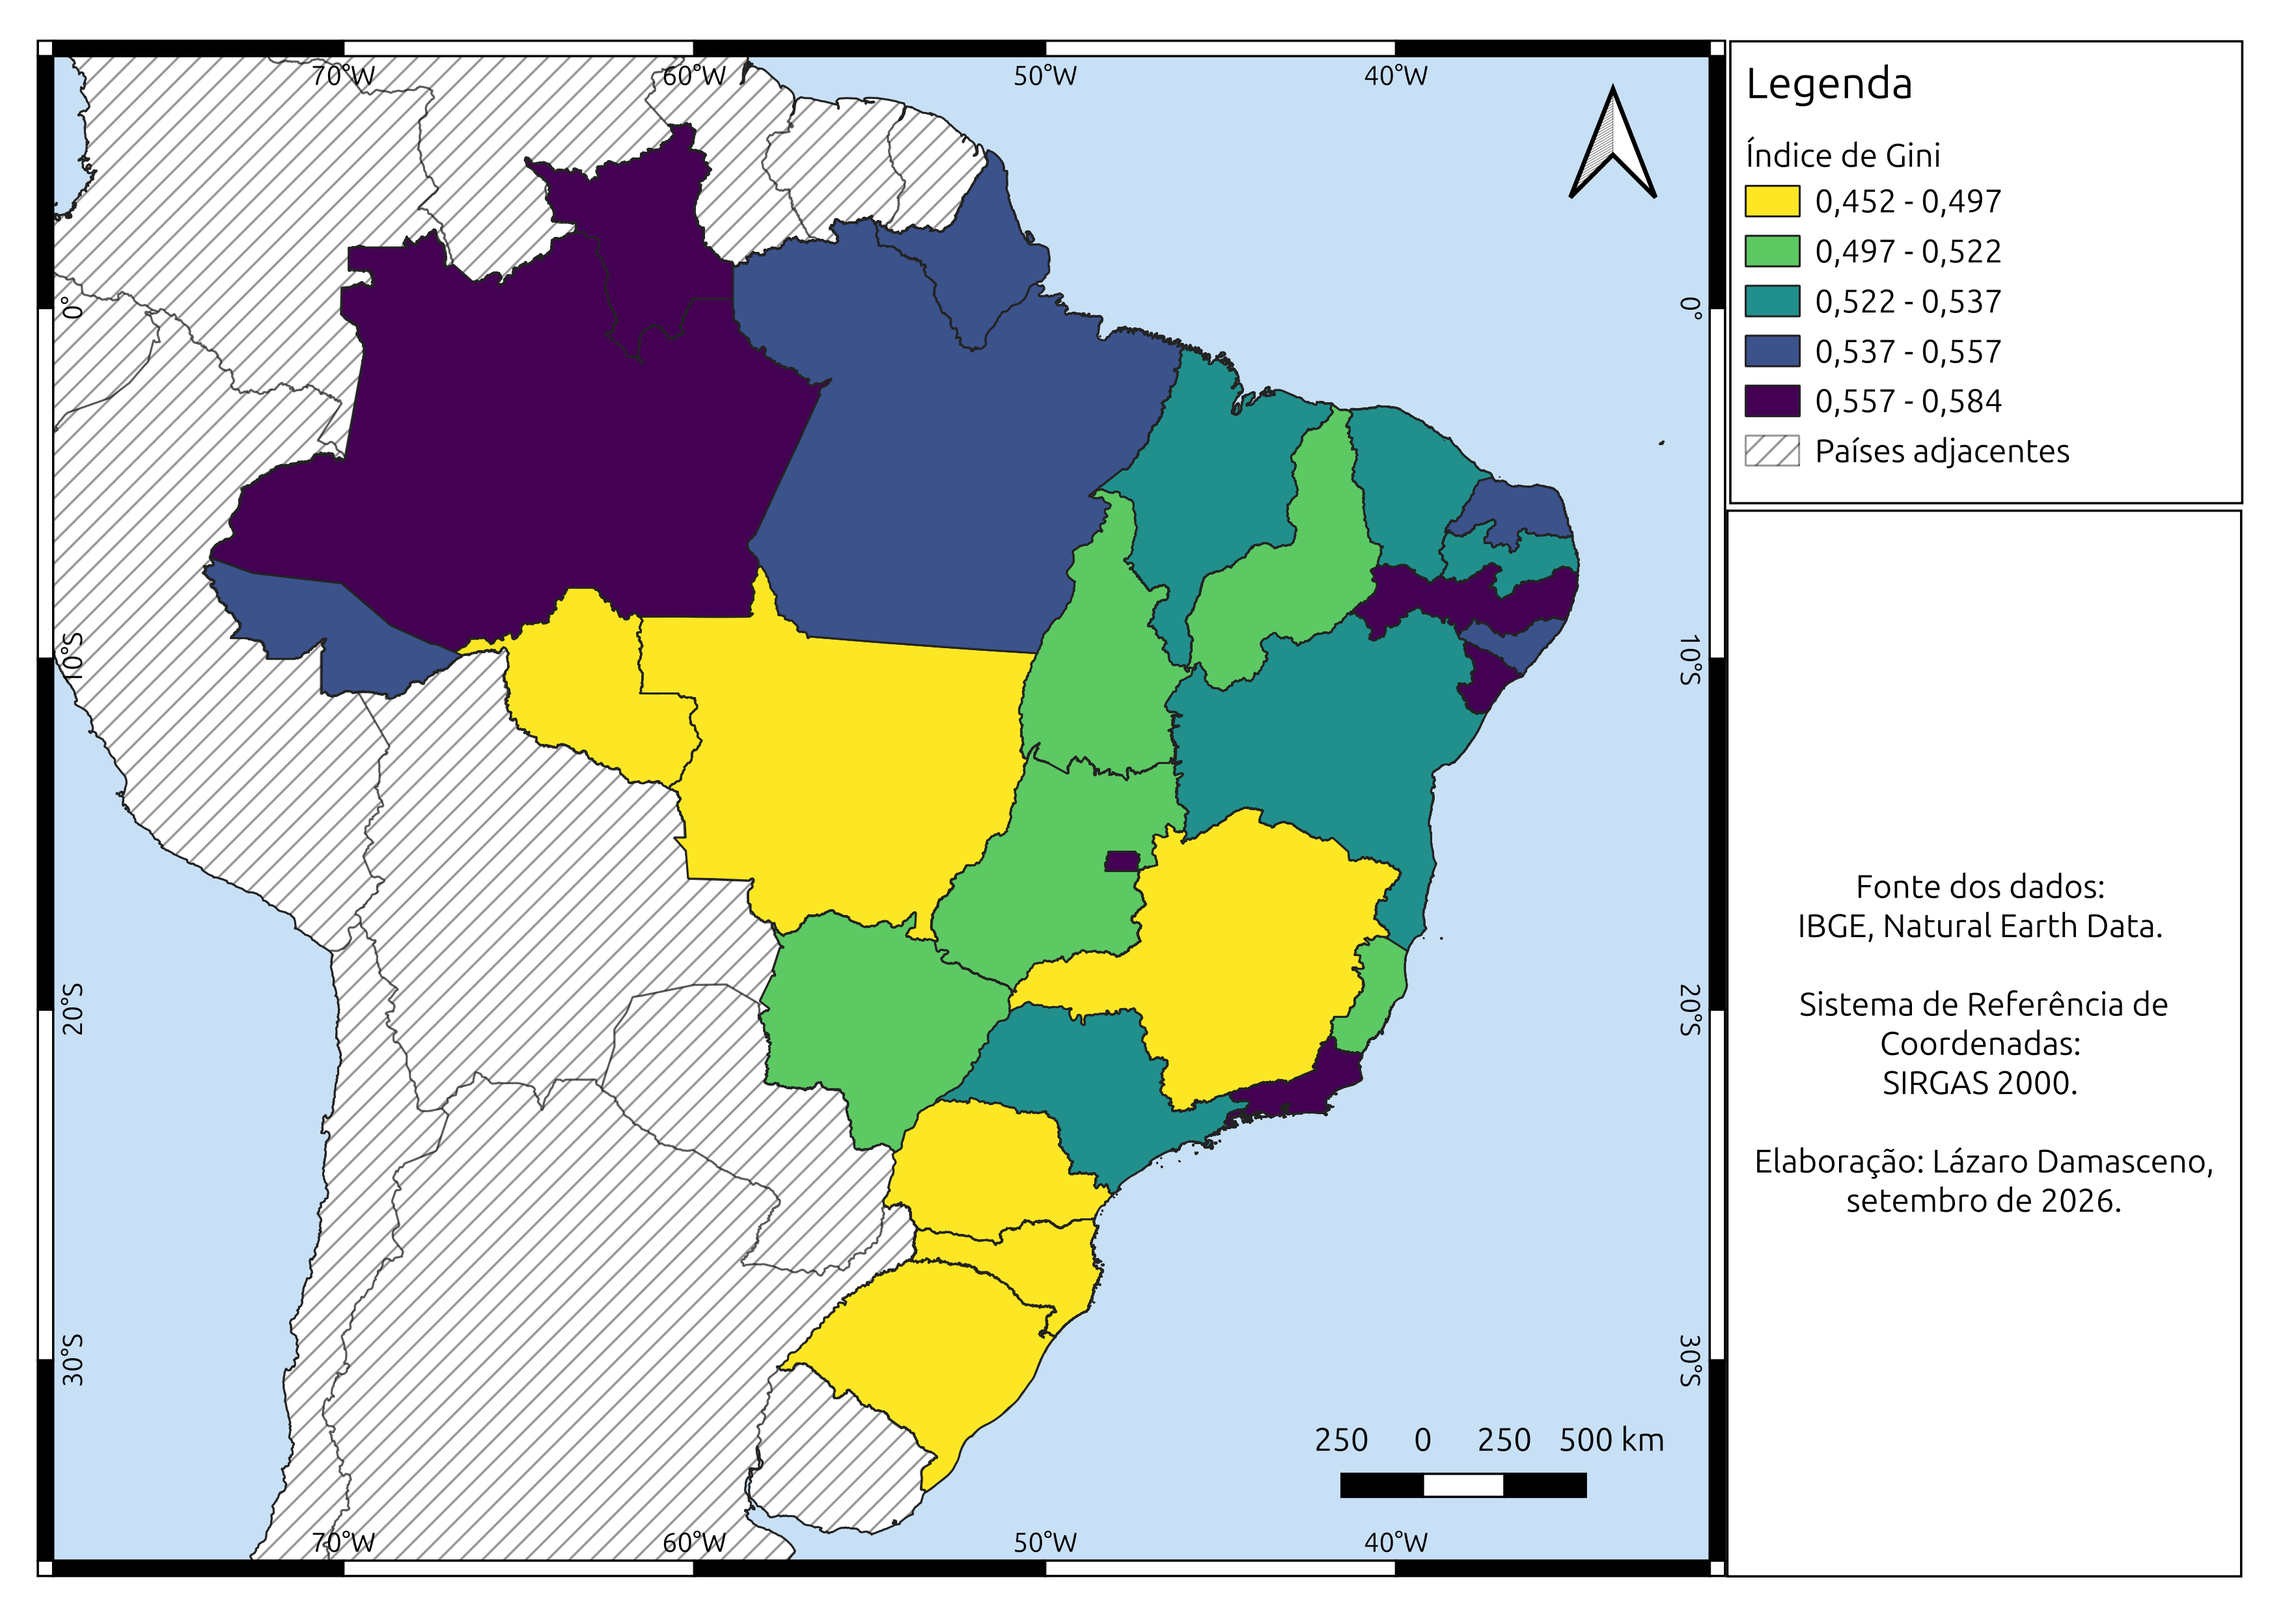
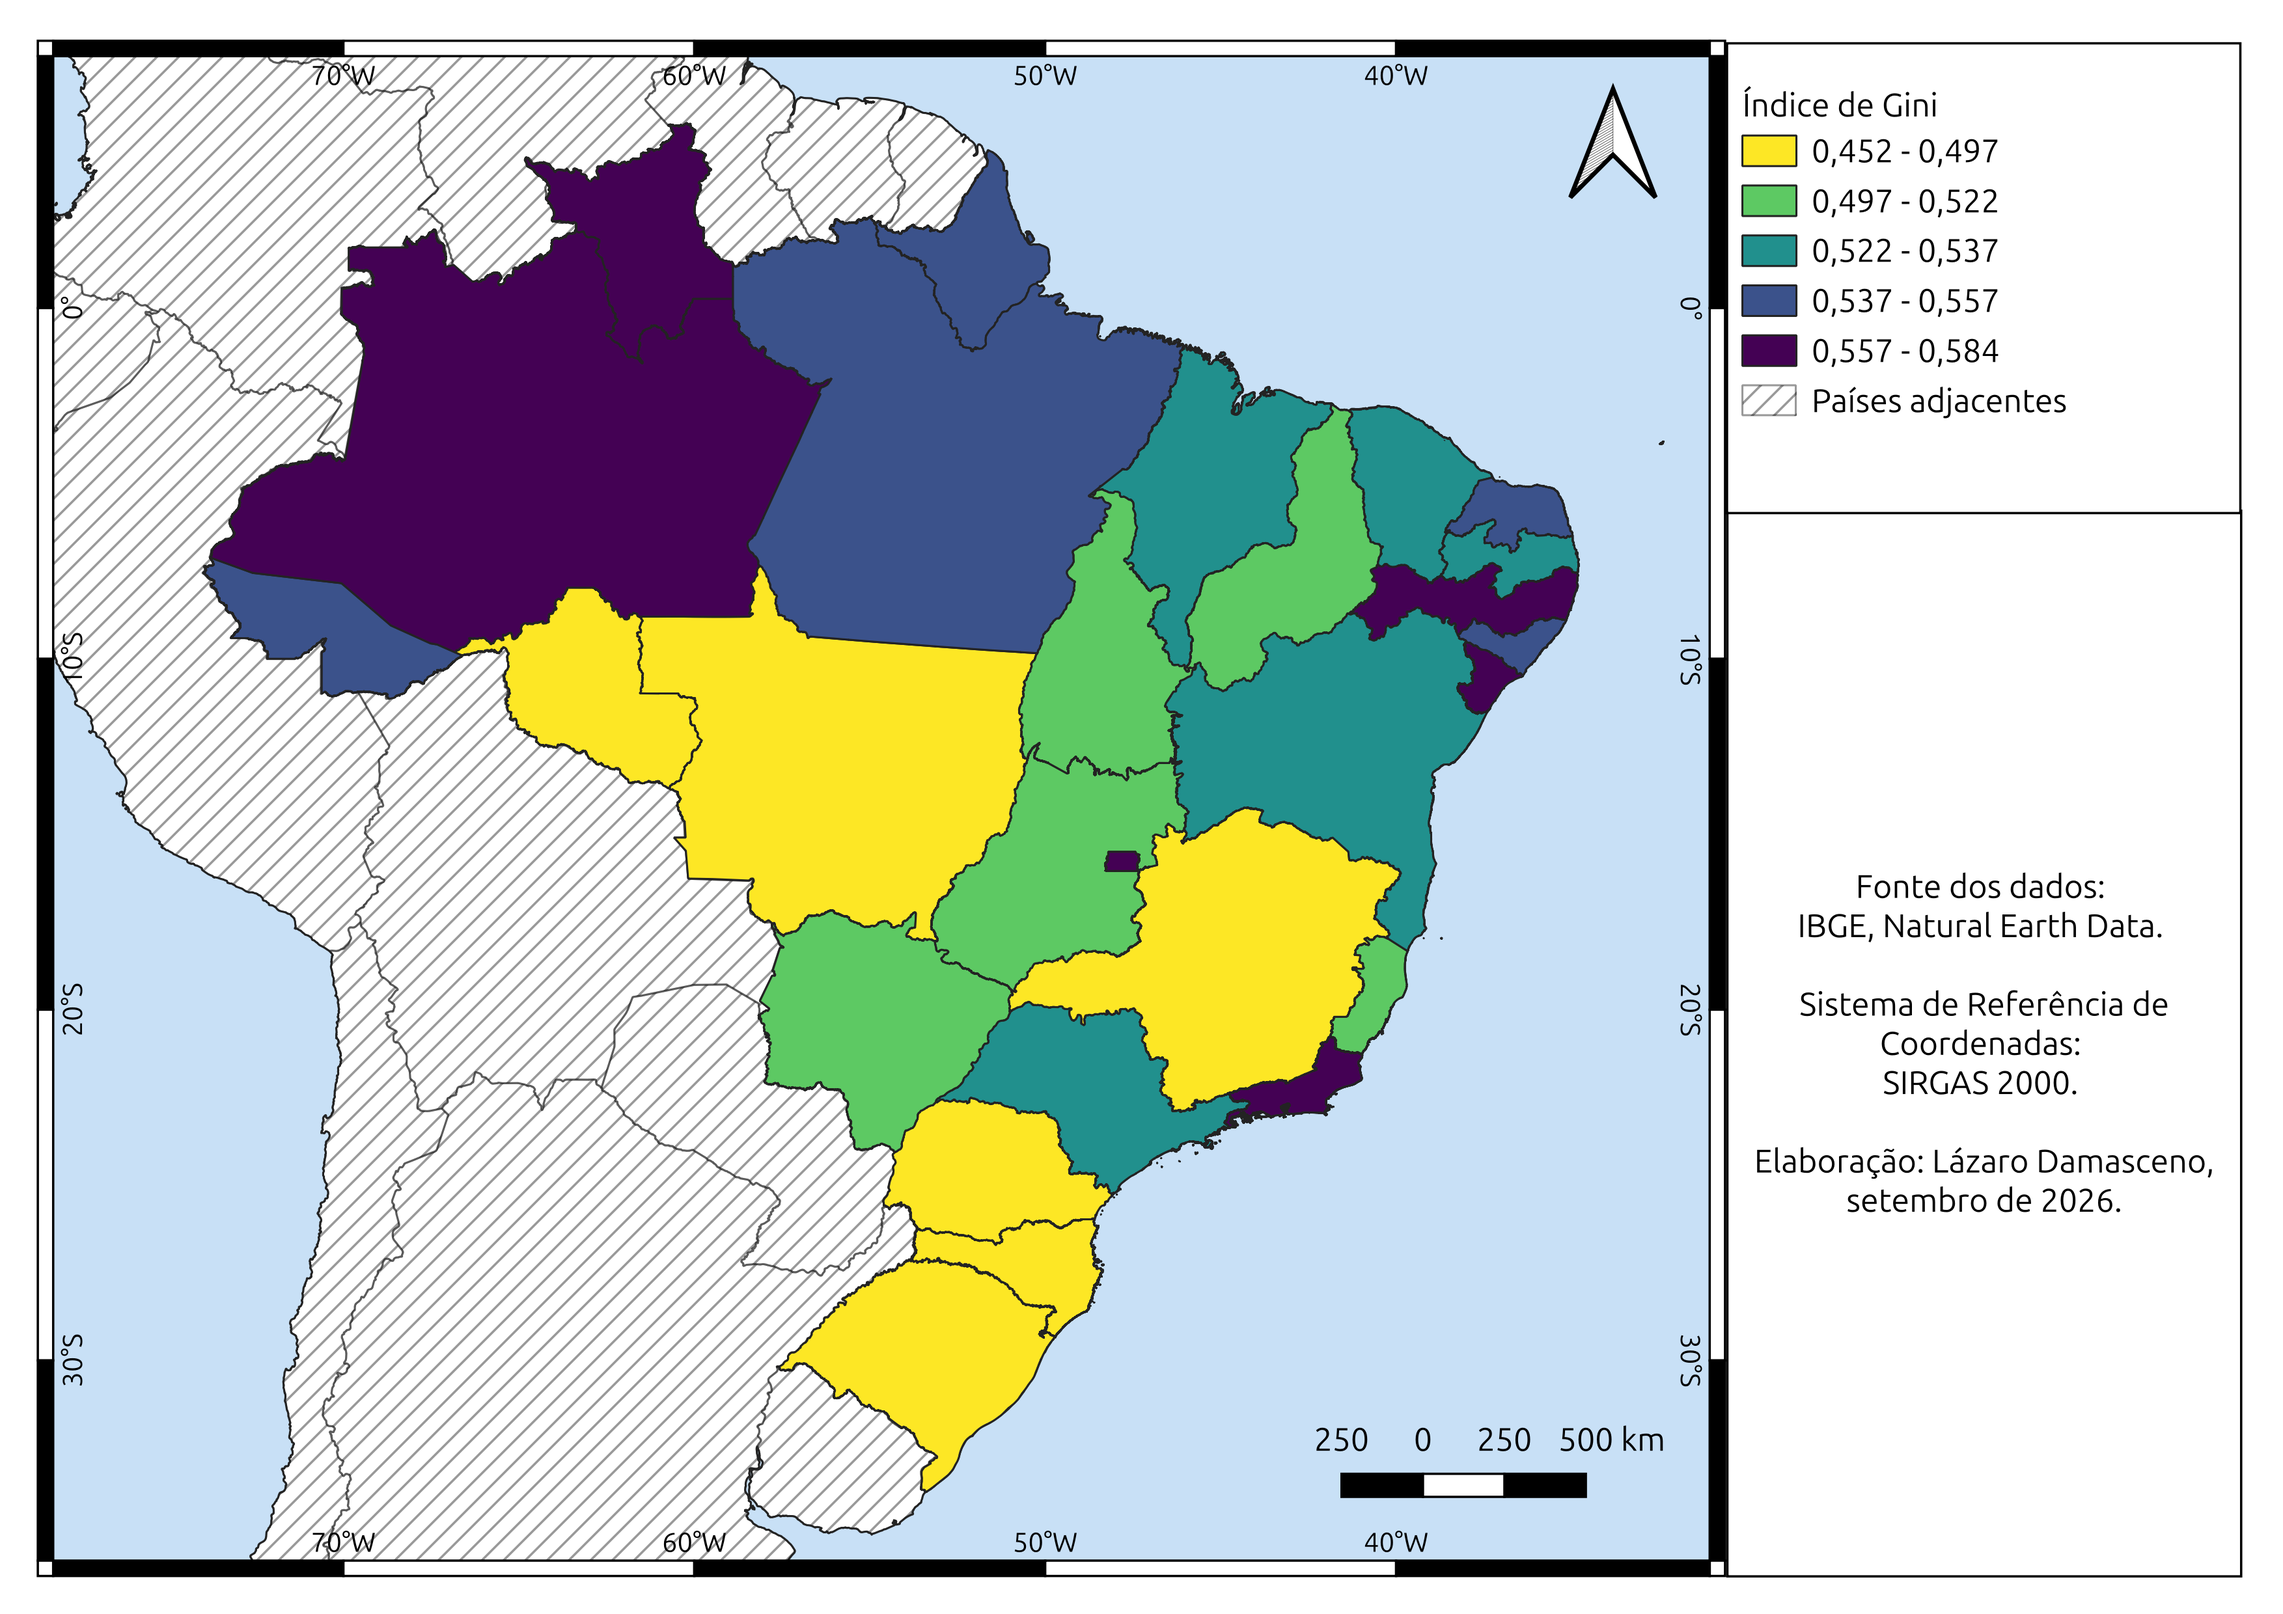
Criou as figuras tabela10301_ufs.png e tabela10302_ufs.png

Changed region(s): [[0.7459, 0.0, 0.9635, 0.3415]]

diff --git a/analise/gini/ibge/tabela10302/tabela10302_regioes.tex b/analise/gini/ibge/tabela10302/tabela10302_regioes.tex
@@ -1,0 +1,11 @@
+\begin{tabular}{lr}
+\toprule
+Grande Região & Gini \\
+\midrule
+Nordeste & 0.517000 \\
+Centro-Oeste & 0.499000 \\
+Norte & 0.497000 \\
+Sudeste & 0.495000 \\
+Sul & 0.454000 \\
+\bottomrule
+\end{tabular}
